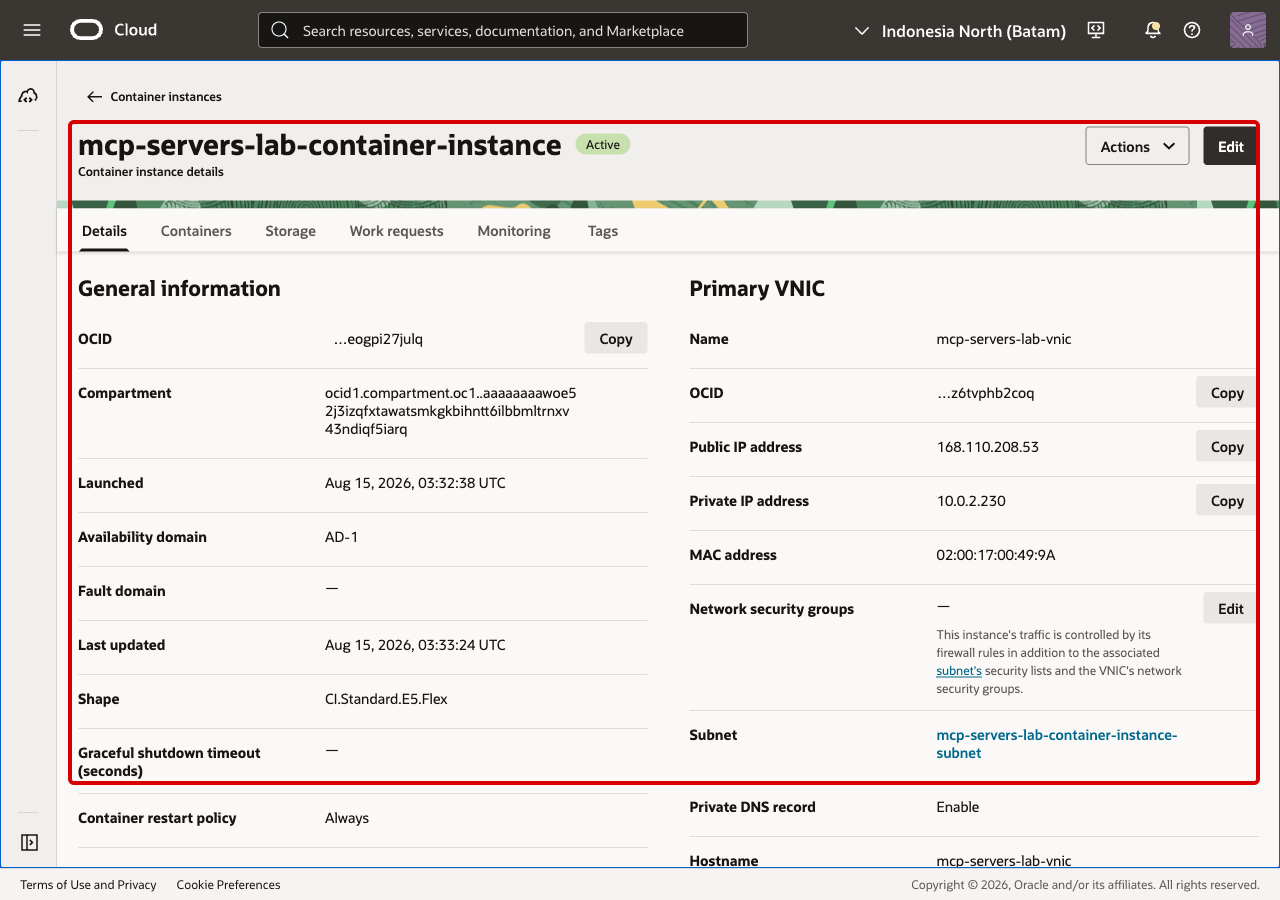
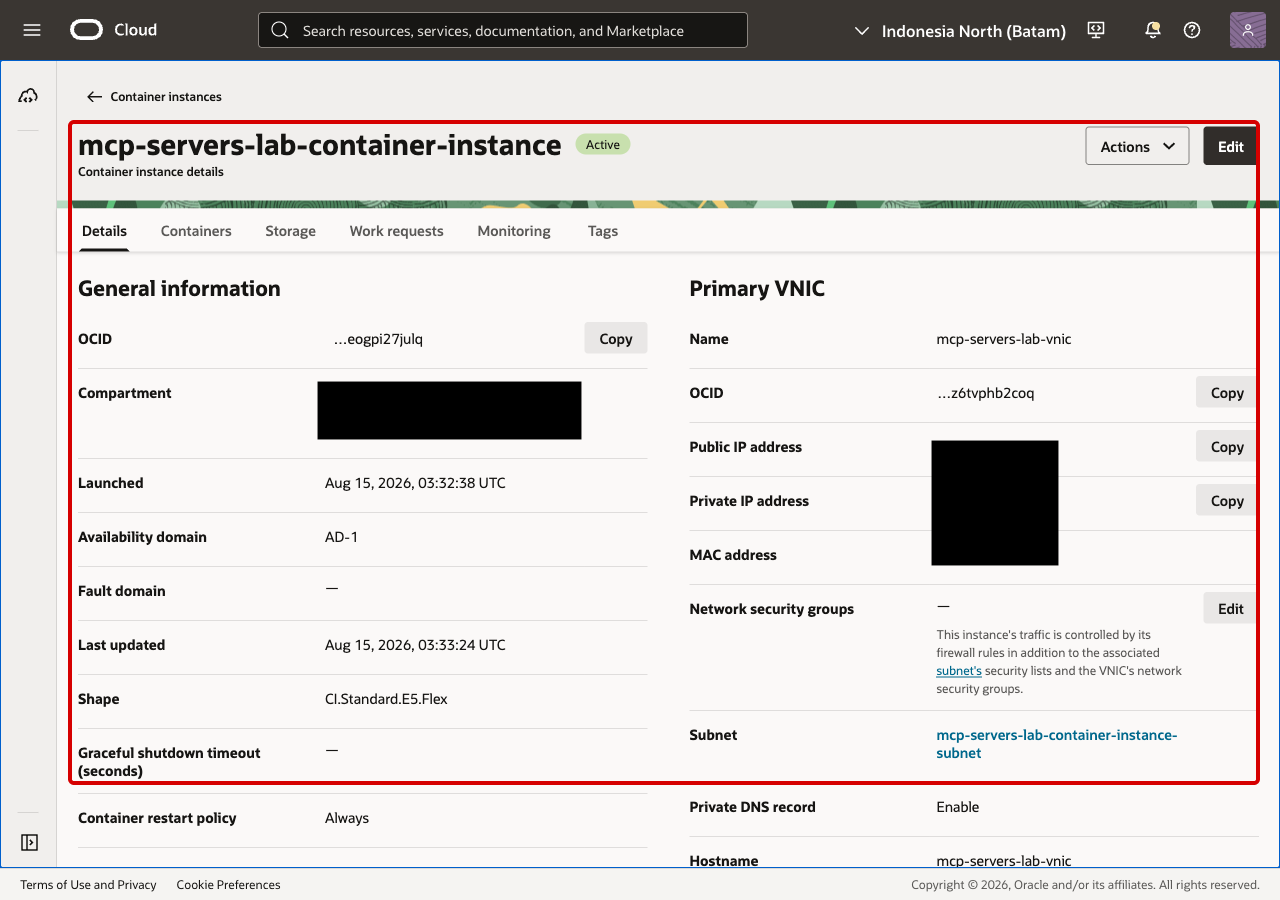
WMS 12195: Update MCP LiveLab client options (#730)
* Add MCP Container Instances Resource Manager stack

* Document OCI deploy button packaging path

* Add OCI deploy button package

* Simplify OCI deploy button README section

* Add API Gateway front door for MCP servers

* Clean up public README lab guidance

* Add local Markdown CI validation for MCP lab

* Add OCI Container Instances MCP LiveLab

* Point MCP LiveLab deploy button to fork main

* Prepare MCP Container Instances LiveLab for Self QA

* Fix LiveLabs QA lint coverage

* Redact LiveLabs validation screenshots

* Update MCP client options and deploy link

Changed region(s): [[0.7188, 0.4667, 0.8438, 0.6533], [0.25, 0.4044, 0.4688, 0.4978]]

diff --git a/mcp-servers-on-oci-container-instances/connect/connect-ai-client.md b/mcp-servers-on-oci-container-instances/connect/connect-ai-client.md
@@ -3,8 +3,9 @@
 ## Introduction
 
 In this lab, you configure an MCP-capable AI client to use the remote MCP
-servers that are running on OCI. The examples use Codex and Cline because both
-were validated with the OCI-hosted endpoints.
+servers that are running on OCI. The examples were validated with the
+OCI-hosted endpoints and are provided so you can choose the client harness that
+matches your workflow.
 
 Estimated Time: 10 minutes
 
@@ -12,11 +13,12 @@ Estimated Time: 10 minutes
 
 In this lab, you will:
 
-* configure Streamable HTTP MCP server entries for one validated AI client;
+* configure Streamable HTTP MCP server entries for one MCP-capable AI client;
 * confirm the client can see the OCI-hosted MCP servers.
 
-Use either the Codex path or the Cline path for the timed lab. The other client
-configuration is included as a reference if you want to try a second client.
+Use one client path for the timed lab. You can use a different option if your
+preferred client harness is Codex, Cline, VS Code GitHub Copilot Chat, or Google
+Antigravity.
 
 ### Prerequisites
 
@@ -41,7 +43,7 @@ MCP-capable AI client configuration.
     <api_gateway_endpoint>/playwright/mcp
     ```
 
-3. Complete either Task 2 or Task 3 for your chosen client.
+3. Complete Task 2, Task 3, Task 4, or Task 5 for your chosen client.
 
 ## Task 2: Option A - Configure Codex
 
@@ -140,7 +142,97 @@ MCP-capable AI client configuration.
     * `oci_github`
     * `oci_playwright`
 
-## Task 4: Confirm your client is using the OCI-hosted servers
+## Task 4: Option C - Configure VS Code GitHub Copilot Chat
+
+1. In VS Code, open the Command Palette:
+
+    * macOS: **Command+Shift+P**
+    * Windows or Linux: **Ctrl+Shift+P**
+
+2. Open one MCP configuration file:
+
+    * For your VS Code user profile, run **MCP: Open User Configuration**.
+    * For the current workspace, run
+      **MCP: Open Workspace Folder MCP Configuration**.
+
+    Use one location for these `oci_*` server entries.
+
+3. Add the remote MCP servers to the `mcp.json` file that VS Code opens.
+
+    ```json
+    {
+      "servers": {
+        "oci_terraform": {
+          "type": "http",
+          "url": "<api_gateway_endpoint>/terraform/mcp"
+        },
+        "oci_github": {
+          "type": "http",
+          "url": "<api_gateway_endpoint>/github/mcp",
+          "headers": {
+            "Authorization": "Bearer ${env:GITHUB_PAT_TOKEN}"
+          }
+        },
+        "oci_playwright": {
+          "type": "http",
+          "url": "<api_gateway_endpoint>/playwright/mcp"
+        }
+      }
+    }
+    ```
+
+4. For GitHub MCP, set `GITHUB_PAT_TOKEN` in the environment used by VS Code.
+    Do not store a real token in `mcp.json`.
+
+5. Save `mcp.json`, then start the MCP servers from the configuration file
+    controls in VS Code.
+
+6. Open GitHub Copilot Chat, select **Agent** mode, and use the tools picker to
+    confirm the `oci_*` MCP servers and tools are available.
+
+## Task 5: Option D - Configure Google Antigravity
+
+1. Add the remote MCP servers to one Antigravity MCP configuration file:
+
+    * global configuration: `~/.gemini/config/mcp_config.json`
+    * workspace configuration: `.agents/mcp_config.json`
+
+2. Add the remote MCP servers.
+
+    ```json
+    {
+      "mcpServers": {
+        "oci_terraform": {
+          "disabled": false,
+          "serverUrl": "<api_gateway_endpoint>/terraform/mcp"
+        },
+        "oci_github": {
+          "serverUrl": "<api_gateway_endpoint>/github/mcp",
+          "headers": {
+            "Authorization": "Bearer <github-token-value>"
+          }
+        },
+        "oci_playwright": {
+          "disabled": false,
+          "serverUrl": "<api_gateway_endpoint>/playwright/mcp"
+        }
+      }
+    }
+    ```
+
+3. For GitHub MCP, replace `<github-token-value>` only in your local
+    Antigravity configuration. Do not store a real token in a tracked workspace
+    file.
+
+4. Open Antigravity and use `/mcp` to view the MCP server manager.
+
+5. Confirm the expected server names are present:
+
+    * `oci_terraform`
+    * `oci_github`
+    * `oci_playwright`
+
+## Task 6: Confirm your client is using the OCI-hosted servers
 
 1. Ask your AI client to list the available MCP tools. The remote OCI-hosted
     servers should appear with names or namespaces that include:

diff --git a/mcp-servers-on-oci-container-instances/deploy/deploy.md b/mcp-servers-on-oci-container-instances/deploy/deploy.md
@@ -28,7 +28,7 @@ networking, API Gateway, and Container Instance resources.
 
 1. Select **Deploy to Oracle Cloud**.
 
-    [![Deploy to Oracle Cloud](../images/deploy-to-oracle-cloud-centered.svg)](https://cloud.oracle.com/resourcemanager/stacks/create?zipUrl=https://github.com/Phirlly/developer/raw/main/mcp-servers-on-oci-container-instances/files/resource-manager/mcp-servers-on-oci-container-instances-rm.zip)
+    [![Deploy to Oracle Cloud](../images/deploy-to-oracle-cloud-centered.svg)](https://cloud.oracle.com/resourcemanager/stacks/create?zipUrl=https://github.com/oracle-livelabs/developer/raw/main/mcp-servers-on-oci-container-instances/files/resource-manager/mcp-servers-on-oci-container-instances-rm.zip)
 
     ![Deploy to Oracle Cloud button](../images/01-create-stack-package.png)
 

diff --git a/mcp-servers-on-oci-container-instances/readme.md b/mcp-servers-on-oci-container-instances/readme.md
@@ -19,7 +19,7 @@ Use the step-by-step guide:
 ## Deploy to OCI
 
 <p align="center">
-  <a href="https://cloud.oracle.com/resourcemanager/stacks/create?zipUrl=https://github.com/Phirlly/developer/raw/main/mcp-servers-on-oci-container-instances/files/resource-manager/mcp-servers-on-oci-container-instances-rm.zip">
+  <a href="https://cloud.oracle.com/resourcemanager/stacks/create?zipUrl=https://github.com/oracle-livelabs/developer/raw/main/mcp-servers-on-oci-container-instances/files/resource-manager/mcp-servers-on-oci-container-instances-rm.zip">
     <img src="https://oci-resourcemanager-plugin.plugins.oci.oraclecloud.com/latest/deploy-to-oracle-cloud.svg" alt="Deploy to Oracle Cloud">
   </a>
 </p>
